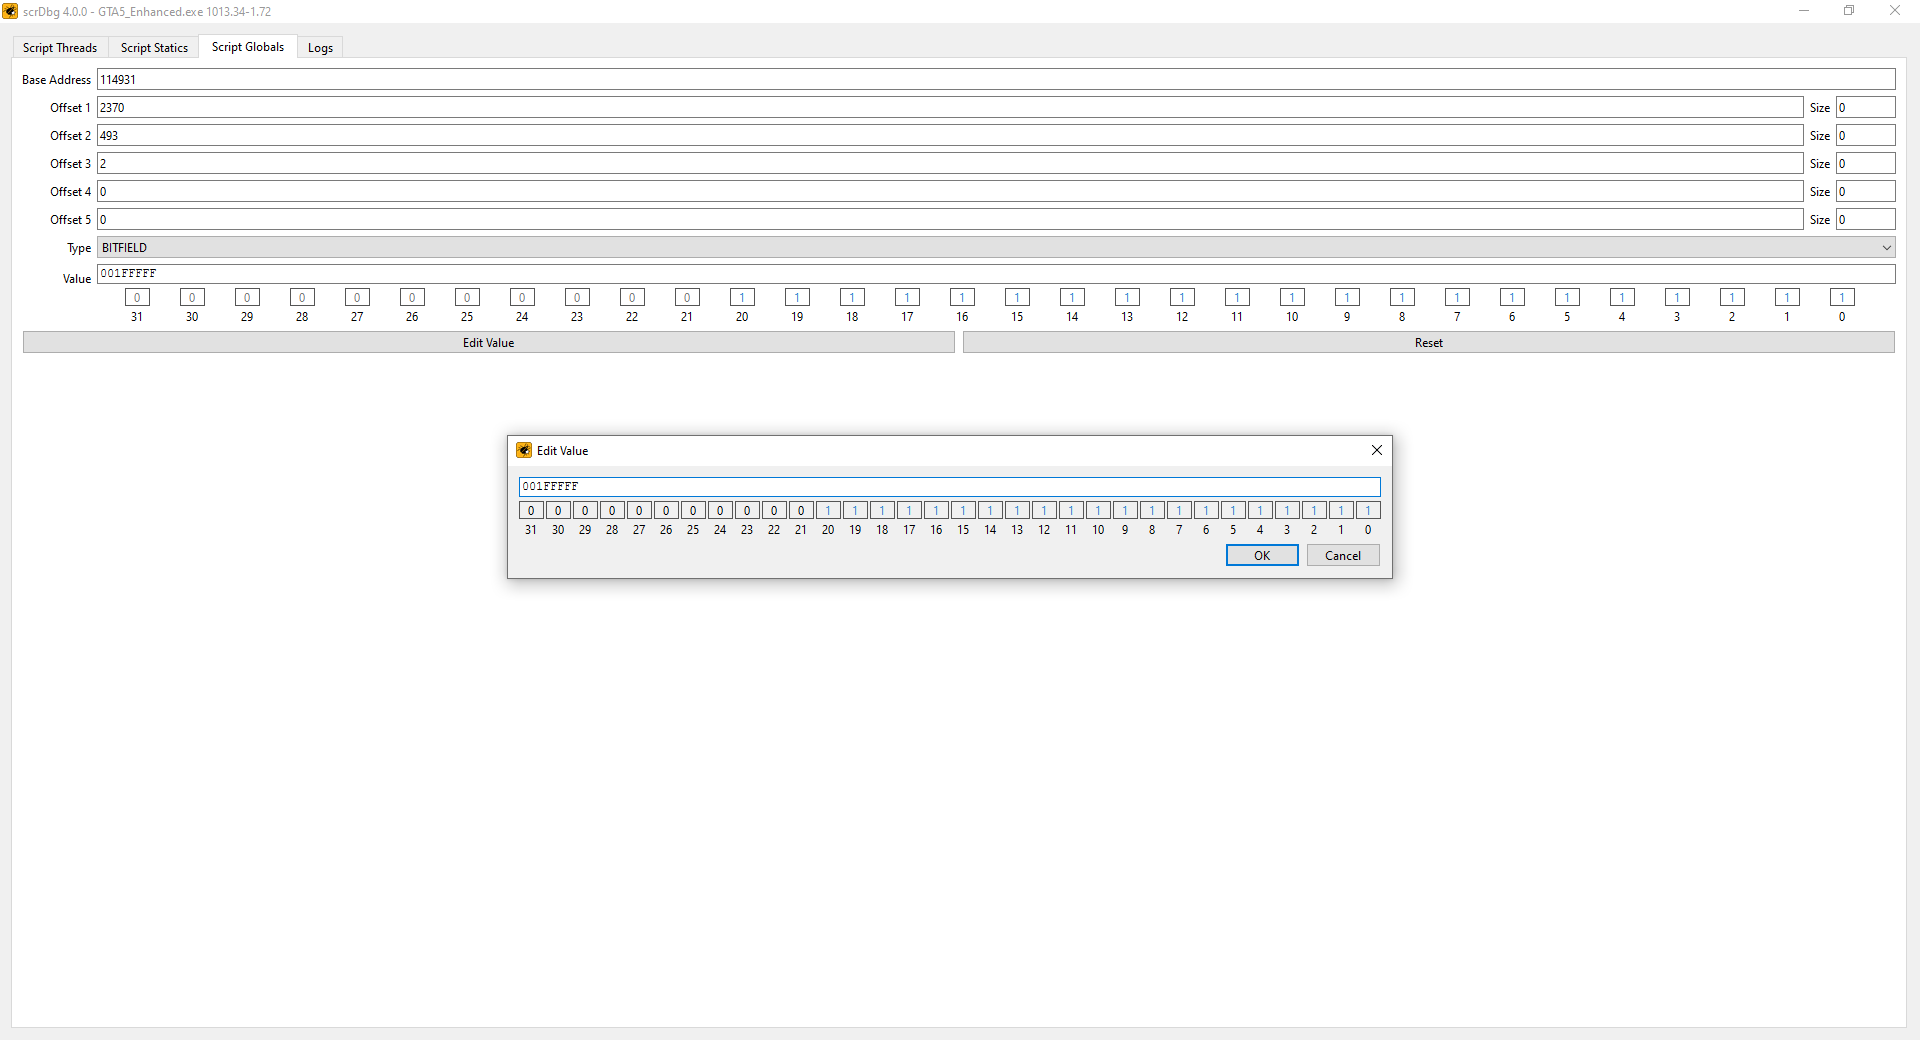
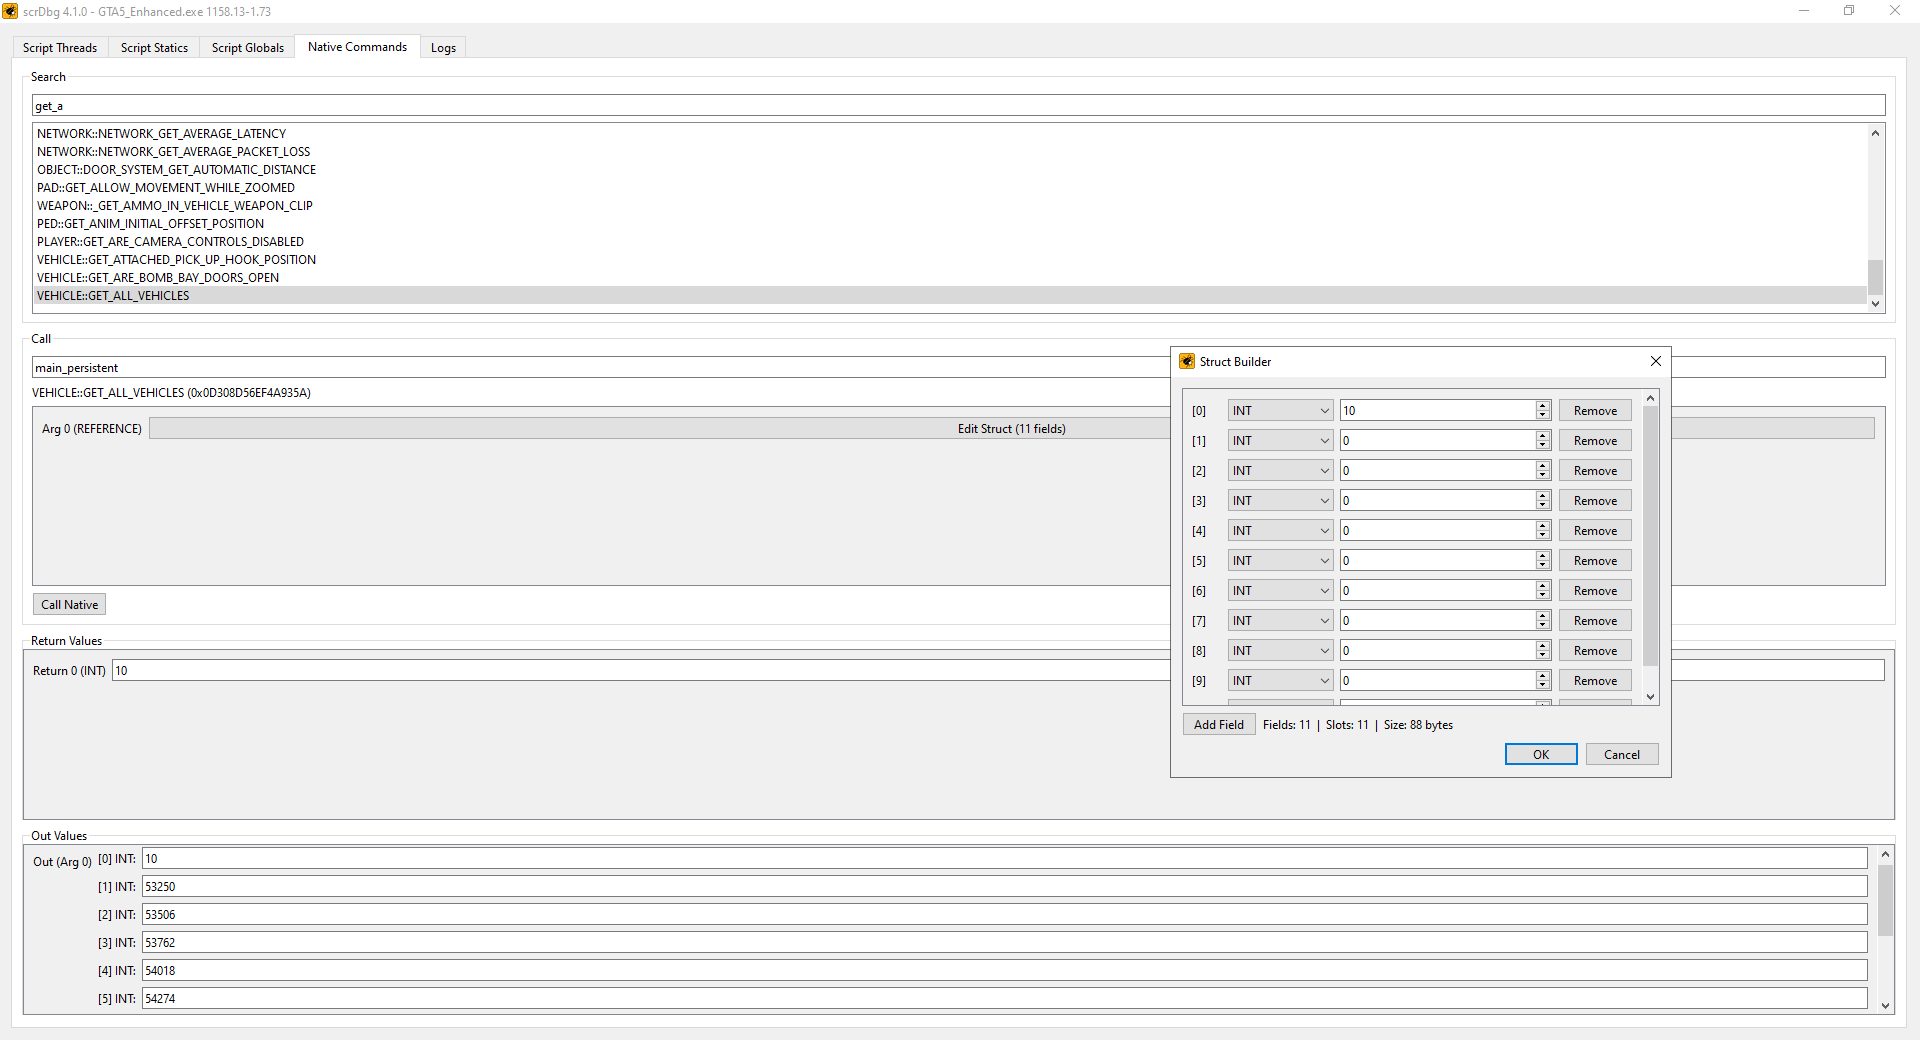
chore: bump version

diff --git a/src/shared/scrDbg.h b/src/shared/scrDbg.h
@@ -7,10 +7,10 @@
 #define NATIVES_GTA5_BIN 205
 #define NATIVES_RDR3_BIN 206
 
-#define SCRDBG_FILEVERSION 4, 0, 0, 0
+#define SCRDBG_FILEVERSION 4, 1, 0, 0
 #define SCRDBG_PRODUCTVERSION SCRDBG_FILEVERSION
 
-#define SCRDBG_FILE_VERSION "4.0.0"
+#define SCRDBG_FILE_VERSION "4.1.0"
 #define SCRDBG_PRODUCT_VERSION SCRDBG_FILE_VERSION
 
 #define SCRDBG_APP_FILE_DESCRIPTION "scrDbgApp"

diff --git a/README.md b/README.md
@@ -34,6 +34,12 @@ It allows you to inspect, manipulate, and debug game scripts in real-time.
   - Generate patterns
   - View xrefs
   - Set breakpoints
+- Dynamic native invoker
+  - Search natives by name and invoke them dynamically
+  - Specify the script to execute the native in
+  - Automatically resolve argument and return types and counts
+  - Dynamically build structs for reference arguments
+  - View return values and reference argument out values
 - Logging
   - Log script frame times
   - Log function calls
@@ -127,7 +133,7 @@ It allows you to inspect, manipulate, and debug game scripts in real-time.
 
 To build scrDbg, you need:
 
-- [Visual Studio 2022](https://visualstudio.microsoft.com/)
+- [Visual Studio 2022/2026](https://visualstudio.microsoft.com/)
   - Desktop development with C++
   - C++ CMake tools for Windows
 - [Qt 6.10.0](https://www.qt.io/download-qt-installer-oss)
